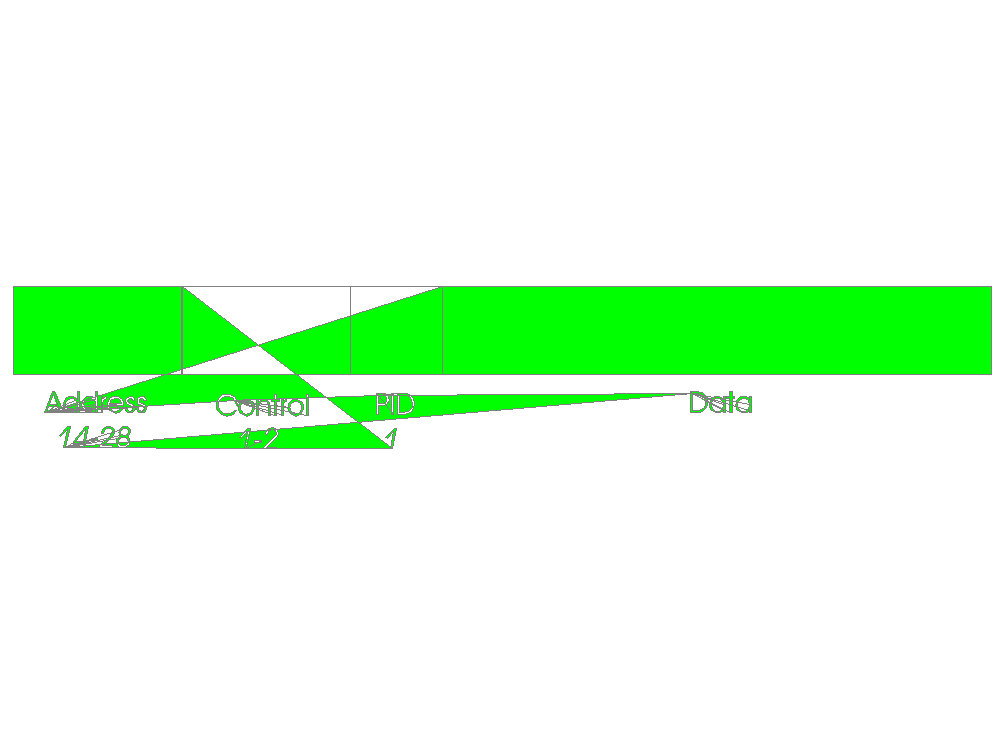
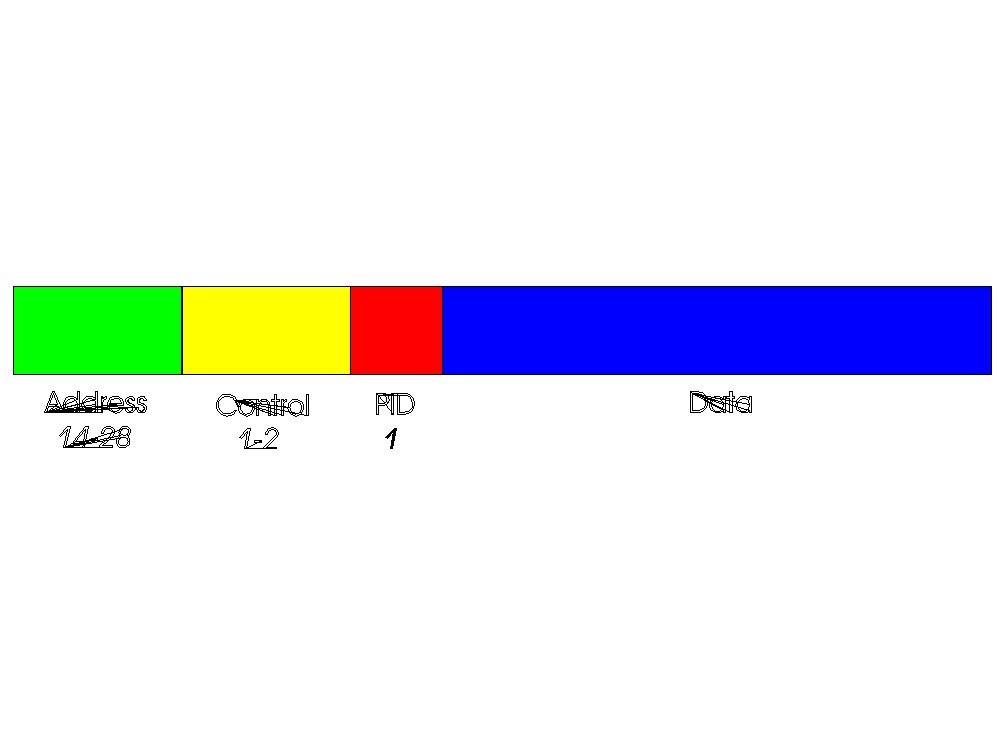
Fix packet GDF area rendering

Changed region(s): [[0.0309, 0.3891, 0.988, 0.6286]]

diff --git a/libgeist/src/img/gdf.cpp b/libgeist/src/img/gdf.cpp
@@ -33,7 +33,7 @@ struct ParserState {
   std::uint8_t color_index = 0;
   std::uint8_t draw_mode = 0;
   bool in_area = false;
-  std::vector<Point> area_points;
+  std::vector<std::vector<Point>> area_contours;
   std::map<std::uint32_t, std::size_t> segments;
   std::vector<std::uint8_t> transform_payload;
   std::vector<std::uint8_t> saved_attributes;
@@ -53,7 +53,7 @@ Color palette(std::uint8_t index) {
       {0, 255, 255, 255},
       {255, 255, 0, 255},
       {255, 255, 255, 255},
-      {128, 128, 128, 255},
+      {0, 0, 0, 255},
       {128, 0, 0, 255},
       {0, 128, 0, 255},
       {0, 0, 128, 255},
@@ -214,11 +214,11 @@ void add_polyline(ParserState& state, std::vector<Point> points) {
   if (points.empty()) {
     return;
   }
+  if (state.in_area && points.size() > 1) {
+    state.area_contours.push_back(points);
+  }
   for (const auto& point : points) {
     extend_bounds(state.picture, point);
-    if (state.in_area) {
-      state.area_points.push_back(point);
-    }
   }
   if (points.size() > 1) {
     state.picture.lines.push_back(
@@ -239,11 +239,7 @@ void set_color(ParserState& state, std::uint8_t index) {
   state.text_color = color;
   state.marker_color = color;
   if (!state.in_area) {
-    state.fill_color = Color{
-        static_cast<std::uint8_t>((static_cast<unsigned>(color.r) + 220) / 2),
-        static_cast<std::uint8_t>((static_cast<unsigned>(color.g) + 220) / 2),
-        static_cast<std::uint8_t>((static_cast<unsigned>(color.b) + 220) / 2),
-        255};
+    state.fill_color = color;
   }
 }
 
@@ -387,27 +383,32 @@ void handle_arc(ParserState& state,
   update_current_from(points, state);
 }
 
-void handle_area(ParserState& state, std::uint8_t flags) {
-  if (!state.in_area) {
-    state.in_area = true;
-    state.area_points.clear();
-  } else if ((flags & 0x40u) != 0 || flags == 0) {
-    if (state.area_points.size() >= 3) {
-      state.picture.polygons.push_back(
-          Polygon{state.area_points, state.fill_color, state.line_color});
-    }
-    state.area_points.clear();
-    state.in_area = false;
+bool is_closed_contour(const std::vector<Point>& points) {
+  if (points.size() < 4) {
+    return false;
   }
+  const auto& first = points.front();
+  const auto& last = points.back();
+  return std::abs(first.x - last.x) < 0.001 &&
+         std::abs(first.y - last.y) < 0.001;
 }
 
 void finish_area(ParserState& state) {
-  if (state.in_area && state.area_points.size() >= 3) {
-    state.picture.polygons.push_back(
-        Polygon{state.area_points, state.fill_color, state.line_color});
+  if (state.in_area) {
+    for (const auto& contour : state.area_contours) {
+      if (is_closed_contour(contour)) {
+        state.picture.polygons.push_back(
+            Polygon{contour, state.fill_color, state.line_color});
+      }
+    }
   }
   state.in_area = false;
-  state.area_points.clear();
+  state.area_contours.clear();
+}
+
+void begin_area(ParserState& state) {
+  finish_area(state);
+  state.in_area = true;
 }
 
 void handle_image_begin(ParserState& state,
@@ -636,6 +637,7 @@ GdfPicture parse_gdf_picture(const std::vector<std::uint8_t>& bytes) {
     case 0x51:
     case 0x58:
     case 0x59:
+    case 0x60:
     case 0x62:
     case 0x64:
     case 0x66:
@@ -644,7 +646,11 @@ GdfPicture parse_gdf_picture(const std::vector<std::uint8_t>& bytes) {
     case 0x74:
     case 0x76:
     case 0x78:
-      handle_attribute(state, opcode, bytes, offset, length);
+      if (opcode == 0x60) {
+        finish_area(state);
+      } else {
+        handle_attribute(state, opcode, bytes, offset, length);
+      }
       break;
     case 0x07:
       break;
@@ -655,7 +661,7 @@ GdfPicture parse_gdf_picture(const std::vector<std::uint8_t>& bytes) {
       }
       break;
     case 0x68:
-      handle_area(state, length ? bytes[offset] : 0);
+      begin_area(state);
       break;
     case 0x70:
       if (length >= 4) {

diff --git a/libgeist/tests/gdf_synthetic.cpp b/libgeist/tests/gdf_synthetic.cpp
@@ -4,6 +4,7 @@
 #include <filesystem>
 #include <fstream>
 #include <iostream>
+#include <sstream>
 #include <stdexcept>
 #include <string>
 #include <vector>
@@ -119,6 +120,7 @@ std::vector<std::uint8_t> synthetic_gdf_all_opcodes() {
     normal(gdf, 0xc1, p);
   }
   short_order(gdf, 0x68, 0x40);
+  normal(gdf, 0x60, {});
 
   short_order(gdf, 0x69, 3);
   {
@@ -191,6 +193,70 @@ std::vector<std::uint8_t> synthetic_gdf_all_opcodes() {
     normal(gdf, 0xe1, p);
   }
   return gdf;
+}
+
+void rectangle(std::vector<std::uint8_t>& out,
+               int left,
+               int bottom,
+               int right,
+               int top) {
+  std::vector<std::uint8_t> p;
+  point(p, left, bottom);
+  point(p, right, bottom);
+  point(p, right, top);
+  point(p, left, top);
+  point(p, left, bottom);
+  normal(out, 0xc1, p);
+}
+
+std::vector<std::uint8_t> synthetic_packet_frame_gdf() {
+  std::vector<std::uint8_t> gdf;
+  gdf.push_back(0x01);
+  gdf.push_back(0x0a);
+  be16(gdf, 2);
+  be16(gdf, 0);
+  be16(gdf, 100);
+  be16(gdf, 0);
+  be16(gdf, 100);
+
+  auto filled_box = [&](std::uint8_t fill,
+                        int left,
+                        int bottom,
+                        int right,
+                        int top) {
+    normal(gdf, 0x26, {0x00, fill});
+    short_order(gdf, 0x68, 0x80);
+    normal(gdf, 0x26, {0x00, 0x08});
+    rectangle(gdf, left, bottom, right, top);
+    normal(gdf, 0x60, {});
+  };
+
+  filled_box(0x04, 0, 60, 20, 80);
+  filled_box(0x06, 20, 60, 40, 80);
+  filled_box(0x02, 40, 60, 50, 80);
+  filled_box(0x01, 50, 60, 100, 80);
+  filled_box(0x08, 0, 40, 10, 50);
+  return gdf;
+}
+
+void require_pixel(const geist::detail::RgbaImage& image,
+                   std::uint32_t x,
+                   std::uint32_t y,
+                   std::uint8_t r,
+                   std::uint8_t g,
+                   std::uint8_t b,
+                   const char* label) {
+  const auto offset =
+      (static_cast<std::size_t>(y) * image.width + x) * 4u;
+  if (image.rgba[offset] != r || image.rgba[offset + 1] != g ||
+      image.rgba[offset + 2] != b) {
+    std::ostringstream message;
+    message << label << " had unexpected color "
+            << static_cast<int>(image.rgba[offset]) << ','
+            << static_cast<int>(image.rgba[offset + 1]) << ','
+            << static_cast<int>(image.rgba[offset + 2]);
+    throw std::runtime_error(message.str());
+  }
 }
 
 void write_le16(std::ofstream& out, std::uint16_t value) {
@@ -267,6 +333,14 @@ int main(int argc, char** argv) {
     if (non_white < 100) {
       throw std::runtime_error("synthetic GDF rendered too few non-white pixels");
     }
+
+    const auto packet_frame = geist::detail::decode_gdf_to_rgba(
+        synthetic_packet_frame_gdf());
+    require_pixel(packet_frame, 100, 220, 0, 255, 0, "green fill");
+    require_pixel(packet_frame, 300, 220, 255, 255, 0, "yellow fill");
+    require_pixel(packet_frame, 450, 220, 255, 0, 0, "red fill");
+    require_pixel(packet_frame, 750, 220, 0, 0, 255, "blue fill");
+    require_pixel(packet_frame, 50, 405, 0, 0, 0, "black fill");
 
     if (argc > 1) {
       write_bmp(argv[1], image);

diff --git a/Format/GDF.md b/Format/GDF.md
@@ -210,6 +210,7 @@ not necessarily the full historical GDDM behavior.
 | `0x51` | Push and set fractional line width | Normal. Two bytes. | Saves previous fractional width, then acts like `0x11`. |
 | `0x58` | Push and set line type | Short. One byte. | Saves previous line type, then acts like line type. |
 | `0x59` | Push and set line width | Short. One byte. | Saves previous line width, then acts like line width. |
+| `0x60` | End area / end figure | Normal. Observed with zero payload. | Closes the current fill area/figure and emits it. In `packet.boo` resource `2`, each filled packet-field rectangle begins with `0x68 0x80`, accumulates one `0xc1` rectangle, then closes with `0x60 00`; ignoring this order joins unrelated later paths into one malformed polygon. |
 | `0x61` | Push and set current position | Normal. One coordinate pair. | Saves previous current position, then acts like current position. |
 | `0x62` | Push and set arc parameters | Normal. Four coordinate values. | Saves previous arc parameters, then acts like arc parameters. |
 | `0x64` | Push and set model transform | Normal. Same as model transform. | Saves previous transform, then acts like model transform. |
@@ -260,6 +261,62 @@ including text/control records. A simple byte scanner misidentifies these as
 coordinate runs and draws false long lines. The record parser avoids that by
 using IBM's GDF order framing and skipping unsupported records by their
 declared length.
+
+### Packet Resource 2 Area and Color Evidence
+
+`BOO/packet.boo` resource `2` is a legacy kind `G` GDF payload at BOO file
+offset `0x00000238` with length `0x00002776` bytes. The hosted BookServer GIF
+used for visual comparison was:
+
+```text
+http://cbrdoc01.lan.cyber.gent/bookmgr/pictures/packet.20260614112503.P2.GIF
+```
+
+That GIF is `1004x735`, matching `libgeist`'s current GDF PNG dimensions for
+this resource. The visible packet frame has four saturated color blocks and
+black stroke labels. Pixel samples from the upstream GIF:
+
+| Pixel | Upstream RGB | Meaning |
+| ---: | --- | --- |
+| `(50, 310)` | `00 ff 00` | First/Address block fill, green. |
+| `(220, 310)` | `ff ff 00` | Second/Control block fill, yellow. |
+| `(380, 310)` | `ff 00 00` | Third/PID block fill, red. |
+| `(500, 310)` | `00 00 ff` | Fourth/Data block fill, blue. |
+| `(60, 405)` | `00 00 00` | Stroke label text, black. |
+
+The first four filled rectangles use this repeated order pattern:
+
+| Payload offset | Bytes | Interpretation |
+| ---: | --- | --- |
+| `0x008c` | `28 10` | Pattern/fill setup. |
+| `0x0090` | `26 02 00 06` | Extended color setup before the first area. |
+| `0x0094` | `68 80` | Begin area/figure. |
+| `0x0096` | `26 02 00 08` | Set stroke/edge color used by the figure outline and later labels. Upstream output shows this as black, not gray. |
+| `0x00a0` | `c1 28 ...` | Five-point rectangle path. |
+| `0x00ca` | `60 00` | End area/figure; close and emit the rectangle. |
+
+The second, third, and fourth rectangles repeat the same shape with area starts
+at payload offsets `0x00f4`, `0x0154`, and `0x01b4`, and matching `0x60 00`
+terminators at `0x012a`, `0x018a`, and `0x01ea`. Later complex stroke paths
+for the labels also use color index `8`; the upstream GIF renders those strokes
+as black.
+
+Implementation consequences:
+
+1. `0x60` must be handled as an area/figure terminator. Waiting for another
+   `0x68` flag or end-of-stream joins independent filled shapes and subsequent
+   stroke-font paths into one polygon, producing the observed green field with
+   stray vectors.
+2. Area contents must preserve individual line-order contours. Packet resource
+   `2` uses `0x68 ... 0x60` groups for the stroke-font labels as well as the
+   filled rectangles; closing an entire label group back to its first point
+   creates vector strings across the letter edges. Only closed contours should
+   be filled as polygons, while open contours remain stroke paths.
+3. Fill colors should be rendered as the direct palette color selected by the
+   GDF state, not blended toward a pastel fallback.
+4. The observed palette entry used by `0x26 02 00 08` is black for this
+   ImageMark/GDDM path. Treating it as gray makes packet resource `2` labels
+   visibly differ from the hosted reader output.
 
 ### Text and Font Handling
 
@@ -345,7 +402,7 @@ Implemented drawing behavior:
 | Marker orders | Rendered as simple cross/star marker shapes. |
 | Character orders | Text bytes are decoded as CP037/EBCDIC and rendered as bitmap glyphs with approximate font-family/style traits from the IBM/ImageMark fallback font table. |
 | Fillet, arc, and full-arc orders | Rendered as approximate elliptical polylines. |
-| Area orders | Collects points while an area is active and fills the resulting polygon with the current fill style. |
+| Area orders | `0x68` begins a fill area/figure, drawable line orders are retained as individual contours, and `0x60` closes the area. Closed contours are filled with the current fill style; open contours remain normal stroke paths. |
 | Graphics image begin/data/end orders | Renders a simple cell-array block from the buffered image bytes. |
 
 This is sufficient for inspection-oriented rendering and for visual recognition

diff --git a/AnalysisNotes/gdf-opcode-analysis-workflow.md b/AnalysisNotes/gdf-opcode-analysis-workflow.md
@@ -154,6 +154,19 @@ Text/font-specific IDA findings:
   `USER32.dll`, but binary strings show a dynamically referenced
   `CPPWRTM.DLL`, which is not included in the repository. Treat direct
   executable comparison as blocked until that historical runtime is available.
+- Packet resource `2` was compared against the hosted BookServer output on
+  2026-06-18 while debugging malformed local output in `render/packet/2.png`.
+  The upstream image was
+  `http://cbrdoc01.lan.cyber.gent/bookmgr/pictures/packet.20260614112503.P2.GIF`.
+  The normal shell path could not resolve `cbrdoc01.lan.cyber.gent` before
+  direct `curl` network access was approved. The fetched GIF was saved outside
+  the repository as `/tmp/packet-P2-upstream.gif` and converted for inspection
+  with `sips -s format png /tmp/packet-P2-upstream.gif --out
+  /tmp/packet-P2-upstream.png`. The local comparison used
+  `./build/boorsrc --extract BOO/packet.boo 2 /tmp/packet-P2.gdf` and
+  `./build/boorsrc --png BOO/packet.boo 2 /tmp/packet-P2-fixed3.png`.
+  Byte-level evidence and upstream pixel samples were recorded in
+  `Format/GDF.md` under "Packet Resource 2 Area and Color Evidence".
 
 ## Repeatable Procedure
 
